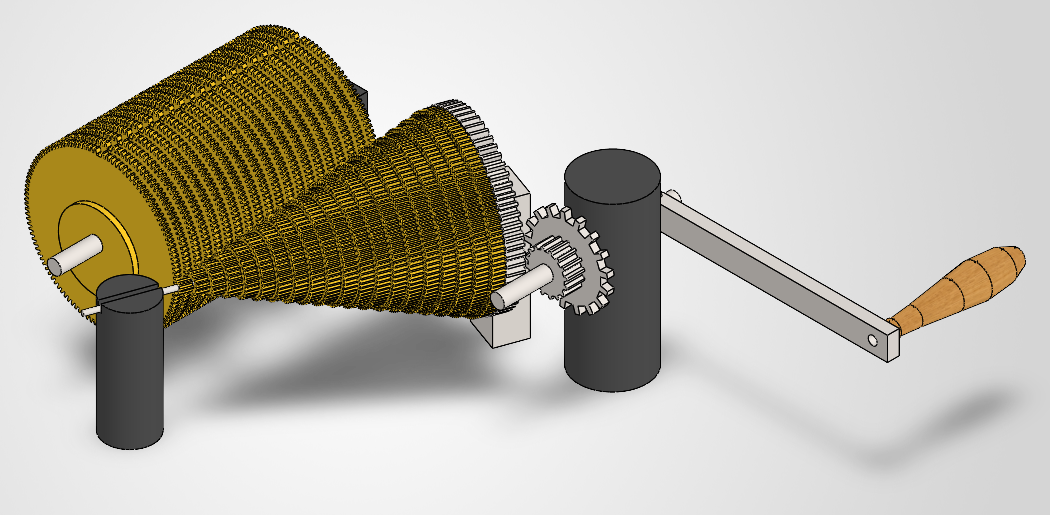
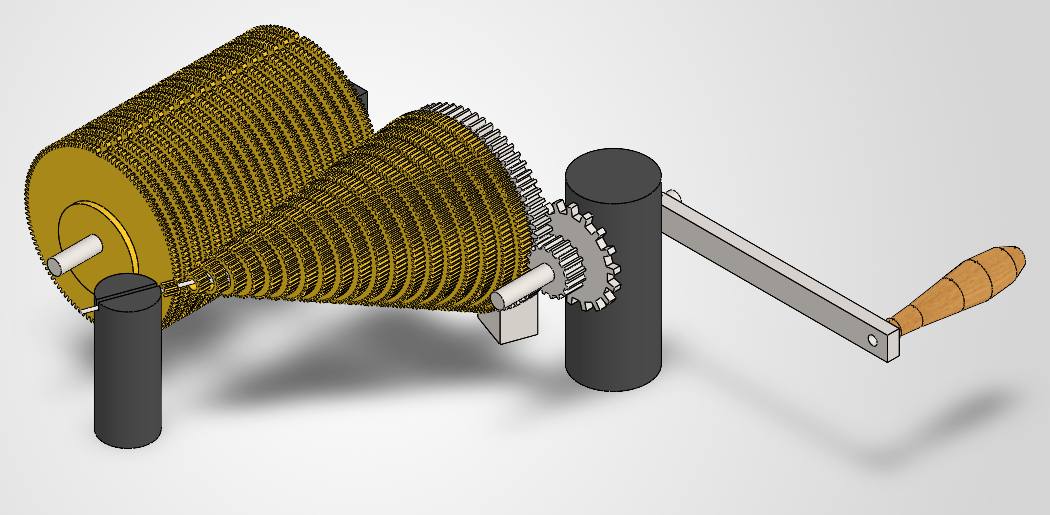
M6.6 verified: drive-train + top level zero interference; DIMENSIONS.md updated
Rebuild chain exit 0: shaft, 64T, knob post, 20 cone-gear configs all
pass analytic volume asserts; drive-train.SLDASM 52 components fixed,
interference check none found; harmonic-analyzer.SLDASM rebuilt with
zero interferences (validates T006 at station 178 and the pivot post at
station -1 against the frame). DIMENSIONS.md ch. 12 / drive-train
layout / drive supports / Appendix C #7 rows updated to the canted-seat
layout (X_T120 54.25, 64T at 57.4/-75.85, crank 122.25, shaft steps
150.5/158.6, 0.08in tip, computed bores).

Lint: n/a (rebuild asserts green).

diff --git a/cad/DIMENSIONS.md b/cad/DIMENSIONS.md
@@ -113,8 +113,8 @@ arm with fiducial indentations for alignment; tapered pin affixes crank to shaft
 | Diametral pitch / module | DP 30 (m = 0.8467 mm) | — | M4 prep, two independent measurements converge (see Appendix C #1 — resolved): p.18 photo tooth pitch 2.69 mm via 7 mm-callout scale; largest-gear OD ≈ 105 ± 5 mm via 150 mm-arrow scale (DP 30 → 103.3). Gives round-inch PDs: largest cone / cylinder gear PD = 120/30 = 4.000", pinion PD = 1.400" | scaled ×2 + period argument | high |
 | Pressure angle | 14.5° assumed | — | period-typical; not stated anywhere | derived | low |
 | Cone shaft length | ~225 mm | ~8.9 | derived: 150 stack + small-end pinion seat ~15 + bearing post ~35 (p.18 top-down) + large-end pivot journal ~25 | derived | low |
-| Cone shaft diameter | stepped: 9.5 (3/8") y 0–152.5, 6.35 (1/4") to 160, 4.76 (3/16") to 167.5, 3.175 (1/8") to 225 (large/pivot end at y 0) | 0.375/0.25/0.1875/0.125 | base dia legacy `parameters.kcl` ShaftDiameter; steps = gear bores (Appendix C #7 resolution): small gears can't clear 3/8", and p.18 shows a visibly thin rod past the smallest gears — `build_cone_gear_shaft.py` | legacy + derived | med |
-| Gear bores (configured `BoreDia`) | 9.5 (3/8") T024–T120; 6.35 (1/4") T018; 4.76 (3/16") T012; 3.175 (1/8") T006; no keyway | 0.375/0.25/0.1875/0.125 | Appendix C #7 resolution; 6T wall 0.8 mm matches the thin tip rod (p.18); p.21 macro shows solder blobs fixing the small gears — no keyway evidence anywhere | derived | med |
+| Cone shaft diameter | stepped: 9.5 (3/8") y 0–150.5, 6.35 (1/4") to 158.6, 2.03 (0.08") to 225 (large/pivot end at y 0) | 0.375/0.25/0.08 | base dia legacy `parameters.kcl` ShaftDiameter; p.18 shows a visibly thin rod past the smallest gears. M6.6: steps end shy of the nominal 25 + k·7.5 seat boundaries so each section's surface stays out of the next CANTED gear's vertical slab, and the tip is turned below the photo-suggested 1/8" — the inclined shaft line passes only 1.30 mm outside the 120T tip circle at the last drum gear's face, so a 1/8" rod would rub those tooth tips (0.08" clears by 0.22) — `build_cone_gear_shaft.py` | legacy + derived | med |
+| Gear bores (configured `BoreDia`) | computed per config by `bore_dia_in` (M6.6 canted seats): 13.1–14.0 (0.517–0.551") T024–T120; 10.8 (0.424") T018; 6.35 (0.25") T012; 2.03 (0.08", snug) T006; no keyway | — | Appendix C #7 + M6.6: a canted gear's bore must clear the inclined shaft's ELLIPTICAL constant-z cross-section (semi-axis r/cos 19.8°, not r) across the 7 mm slab, plus the shaft-axis walk (face/2 · tan 19.8°), plus the assembly's stub-gap mesh relief (≤ 0.58 at T012), plus 0.25 margin; p.21 macro shows solder blobs fixing the small gears — sloppy fits are period-authentic, no keyway evidence anywhere | derived | med |
 | Crank-drive gear (dark steel gear at the large end, "This gear engages the crank" p.20) | coarser pitch than DP 30, est. DP 16: ~64T, PD 4" (OD ≈ cone 120T's); mates a ~16T crank pinion (4:1) | — | p.20 annotation + visibly ~1.5–2× coarser teeth than the 120T beside it; tooth counts NOT countable in available photos — est. from the stated 4:1 + round-PD argument (see Appendix C #9) | scaled | low |
 
 Notes: all 20 gears fixed to one shaft, rotate together. Engagement with cylinder
@@ -189,12 +189,12 @@ toward the horizon (e.g. the crank pedestal at x +122.3 reads at ratio
 | Drive height (cylinder arbor AND cone big-end axis) | y = 76 above base top | crank-arm pivot + cone big-end brass blob, front view; side-view cone midline near-level confirms equal heights | med |
 | Mesh offset direction | horizontal (plan), cone beside drum | ch. 12 p.18 top-down: cone converges on the drum toward the small end; side view cone midline ≈ level | high |
 | Cone plan incline | 19.8° = arcsin(2.54/7.5), converging +X→−X toward the drum | mesh condition (appendix C #3) | high |
-| Cone big-end axis (T120 station) | (x, z) = (+55.6, −67.1) | the 64T drive gear sits ~8.5 mm outboard of T120 along the cone axis (p.20: back-to-back), so the crank mesh is at the 64T station: x_T120 = crank 122 − 63.5 − 8.5·sin19.8° = 55.6; photo blob at +55 ± 5 agrees; z = −19/2 × 7.06 (stack centered between gates) | med |
-| 64T drive gear | centre (x, z) = (+58.5, −75.1) = T120 station − 8.5 mm along the cone axis (toward the pivot) | p.20 (directly beside the 120T); face 10 → centres 8.5 = (7 + 10)/2 apart | med |
-| Cone gear j (j = 0 big … 19 small) | x_j = 55.6 − 2.54j, z_j = −67.1 + 7.06j, y = 76 | mesh + stack grid | med |
-| Cylinder arbor (stationary) | x = −47.5 (= 55.6 − 101.6 − 1.5 backlash), y = 76, along Z | mesh distance at T120 minus 1.5 mm drum backlash: a straight cone meshing a straight drum engages 0.15 mm/station deeper toward the small end (plan-projected radius shrinks by cos 19.8° while the x-step stays 2.54), so ideal big-end distance interferes at T036..T006 (live check); the book's "oblique partial engagement" note (ch. 12) is this same geometry. Vertical connecting rods reach rocker tips only for x_cyl ≥ −100 ✓ | med |
+| Cone big-end axis (T120 station) | (x, z) = (+54.25, −67.1) | M6.6: x_T120 = drum x −47.5 + 101.6 (exact DP 30 centre distance, 4.000" + 4.000" PDs halved) + 0.15 mesh backlash — the canted-vertical seats (below) mesh EVERY station exactly, retiring the 1.5 mm drum-backlash compromise that put T120 at 55.6; photo blob at +55 ± 5 still agrees; z = −19/2 × 7.06 (stack centered between gates) | med |
+| 64T drive gear | centre (x, z) = (+57.4, −75.85): seat 8.75 mm south of T120 along the shaft, gear CANTED VERTICAL (disc square to the crank pinion) | p.20 (directly beside the 120T); z packing: 0.25 air to the T120 south face and 0.25 to the sprocket | med |
+| Cone gear j (j = 0 big … 19 small) | x_j = 54.25 − 2.54j (+ stub-gap mesh relief ≤ 0.58 from T054 down), z_j = −67.1 + 7.06j, y = 76; gears seated CANTED VERTICAL (disc square to the drum — only the shaft inclines 19.8°); T006 (below minimum tooth count, cannot mesh) parked perpendicular at shaft station 178, north of its drum gear | mesh + stack grid; M6.6: a perpendicular seat loses cos 19.8° of projected radius (3 mm at T120 vs the 1.69 mm working depth) and offsets contact by r·sin 19.8° in z — geometrically unable to mesh, hence the canted display-state seats (`build_drive_train_assembly.py` docstring) | med |
+| Cylinder arbor (stationary) | x = −47.5 (frame-locked: rocker-support boss bore + arbor pedestal), y = 76, along Z | the cone grid is derived FROM the drum at the exact DP 30 centre distance (M6.6); the book's "oblique partial engagement, distinct wear" (ch. 12) records how the real perpendicular-seated train coped, which rigid CAD cannot. Vertical connecting rods reach rocker tips only for x_cyl ≥ −100 ✓ | med |
 | Cylinder gear j | z_j = −67.1 + 7.06j (same stations as cone gear j) | mesh plane alignment | high |
-| Crankshaft | along Z at (x, y) = (+122.3, 76) = 64T x + 63.5 + 0.3 backlash; green cylindrical pedestal at front-right; arm + chain sprocket at front end, 16T pinion at back end overlapping the 64T's back half (skewed-mesh clearance) | front view pedestal at +122 ± 3; crank-to-cone distance 67 ± 5 measured ≈ 63.5 required ✓ ratifies appendix C #9 pair | med |
+| Crankshaft | along Z at (x, y) = (+122.25, 76) = 64T x 57.4 + 63.5 + 1.35 stub-gap backoff (16T DP 16 gaps are 1.99 mm deep vs the 3.18 mm working depth); green cylindrical pedestal at front-right; arm + chain sprocket at front end, 16T pinion at back end overlapping the vertical 64T's back half (5 mm engaged band) | front view pedestal at +122 ± 3; crank-to-cone distance 67 ± 5 measured ≈ 63.5 required ✓ ratifies appendix C #9 pair | med |
 | Chain run | crank sprocket (+122, 76) up to the translational-gearing sprocket at the third A-frame apex (x ≈ −7 ≈ 0, centered) | front view; transgear disc center measured x = −7 | med |
 | Cone pivot | at the big end, front (black bracket, p.18 "pivot" label); small end carried by the green knob post — swing is horizontal (out of mesh) | p.18 + ch. 12 notes | high |
 
@@ -204,8 +204,8 @@ toward the horizon (e.g. the crank pedestal at x +122.3 reads at ratio
 |---|---|---|---|---|
 | `crank-pedestal` | green cylinder Ø46 × 110 tall, Ø9.5 bore along Z | (+122.3, −108) | front view: centre +123 ± 3, Ø 278 px / 6.02 px/mm, top ~110 above base top; z: standing inside the base front edge (−133.35), shaft stations in front | low/med |
 | `arbor-pedestal` ×1 (M6.5) | green block 24 × 16 × 85, Ø9.5 clamp bore along Z | (−47.5, −92) south only — arbor 200 long spans z ±100, stack ends ±70.6; the NORTH end clamps into the rocker-support frustum's east-flank boss bore (Ø9.7 at local (+25.4, 76) = machine (−47.5, 126.8), boss Ø20 face at z 74.1) — calibrated v3 side view shows no north pedestal, the arbor disappears into the frustum flank | function-driven; v3 side view (6.124 px/mm) | low/med |
-| `cone-pivot-post` | black steel block 25 × 20 × 85, Ø9.5 journal bore (rotated 19.8° in plan with the cone axis) | (+64.0, −90.4) = shaft station 4 mm from the pivot end (post straddles the journal, bore part-empty toward the front) | p.18 "pivot" bracket; journal length from the cone-shaft row (~25) | low |
-| `cone-knob-post` | green round post Ø32 × 80, upward-open U-slot 3.5 wide, floor at 74.4 (tip centre 76) | (−2.4, +94.0) = shaft station 200 from the pivot end (thin-tip journal) | p.18 top-down: green post Ø ~72 px / 2.23 px/mm (largest-cone-gear-OD scale); view 5/8 ball-knob at x ≈ −20 ± 15 agrees within error | low |
+| `cone-pivot-post` | black steel block 25 × 20 × 85, Ø9.5 journal bore (rotated 19.8° in plan with the cone axis) | (+64.3, −95.1) = shaft station −1 from the pivot end: the shaft engages the first 9 mm of the bore and ends inside (blind-bearing look — p.18 shows the shaft end disappearing into the bracket); M6.6: at station 4 the rotated block's corner (reach ±13.64 in z) cut 4 mm into the canted 64T, at −1 it stops 0.60 clear | p.18 "pivot" bracket; journal length from the cone-shaft row (~25) | low |
+| `cone-knob-post` | green round post Ø32 × 80, upward-open U-slot 2.4 wide, floor at 74.98 (resting 0.08" tip centre 76) | (−3.7, +94.0) = shaft station 200 from the pivot end (thin-tip journal) | p.18 top-down: green post Ø ~72 px / 2.23 px/mm (largest-cone-gear-OD scale); view 5/8 ball-knob at x ≈ −20 ± 15 agrees within error; slot resized for the M6.6 0.08" tip | low |
 
 ### Connecting rods (ch. 13 pp. 22–25 + ch. 14 p. 29; 20 used)
 
@@ -679,10 +679,11 @@ re-measure during their M2 script build.
    **RESOLVED in M4c: configured bore + stepped shaft, no keyway.** At
    DP 30 the 6T gear's OD is 6.77 mm and the 12T root circle is 8.0 mm,
    both smaller than the 9.5 mm cone shaft. Resolution: the cone-gear
-   part carries a configured `BoreDia` global — 3/8" (T024–T120), 1/4"
-   (T018), 3/16" (T012), 1/8" (T006; 0.8 mm wall matches the visibly
-   thin tip rod in p.18) — and the shaft (`build_cone_gear_shaft.py`)
-   steps 3/8 → 1/4 → 3/16 → 1/8" at the same stations (ch. 12 rows). No
+   part carries a configured `BoreDia` global computed by `bore_dia_in`
+   (M6.6 canted seats: ~0.52–0.55" T024–T120, 0.424" T018, 0.25" T012,
+   0.08" snug T006 — see the ch. 12 bore row for the clearance terms)
+   and the shaft (`build_cone_gear_shaft.py`)
+   steps 3/8 → 1/4 → 0.08" at stations 150.5/158.6 (ch. 12 rows). No
    keyway anywhere: the book never shows the attachment and the p.21
    macro shows solder blobs at the small gears, so gears are modeled
    plain-bored (key/solder hardware out of scope). Implementation note:
